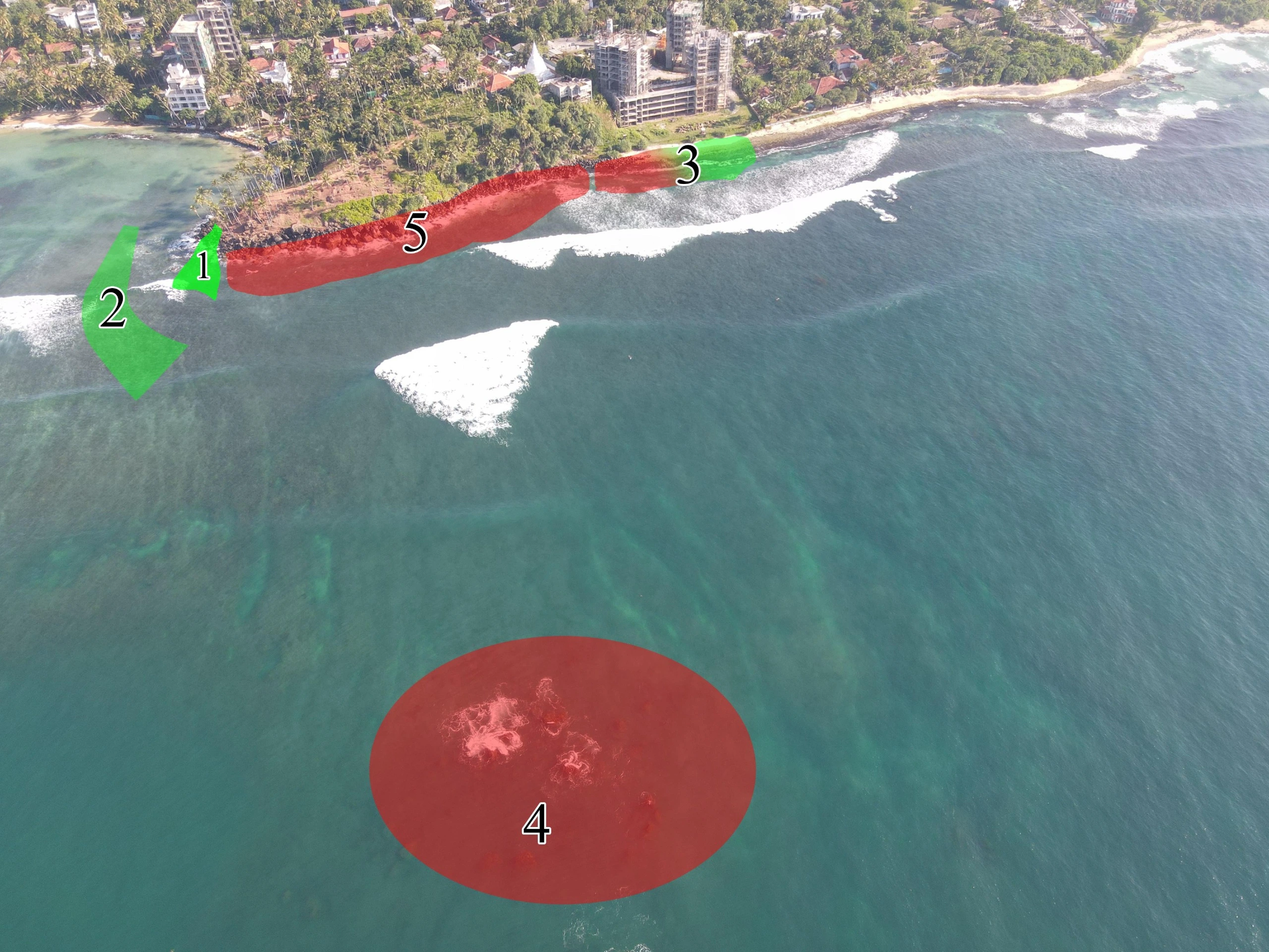
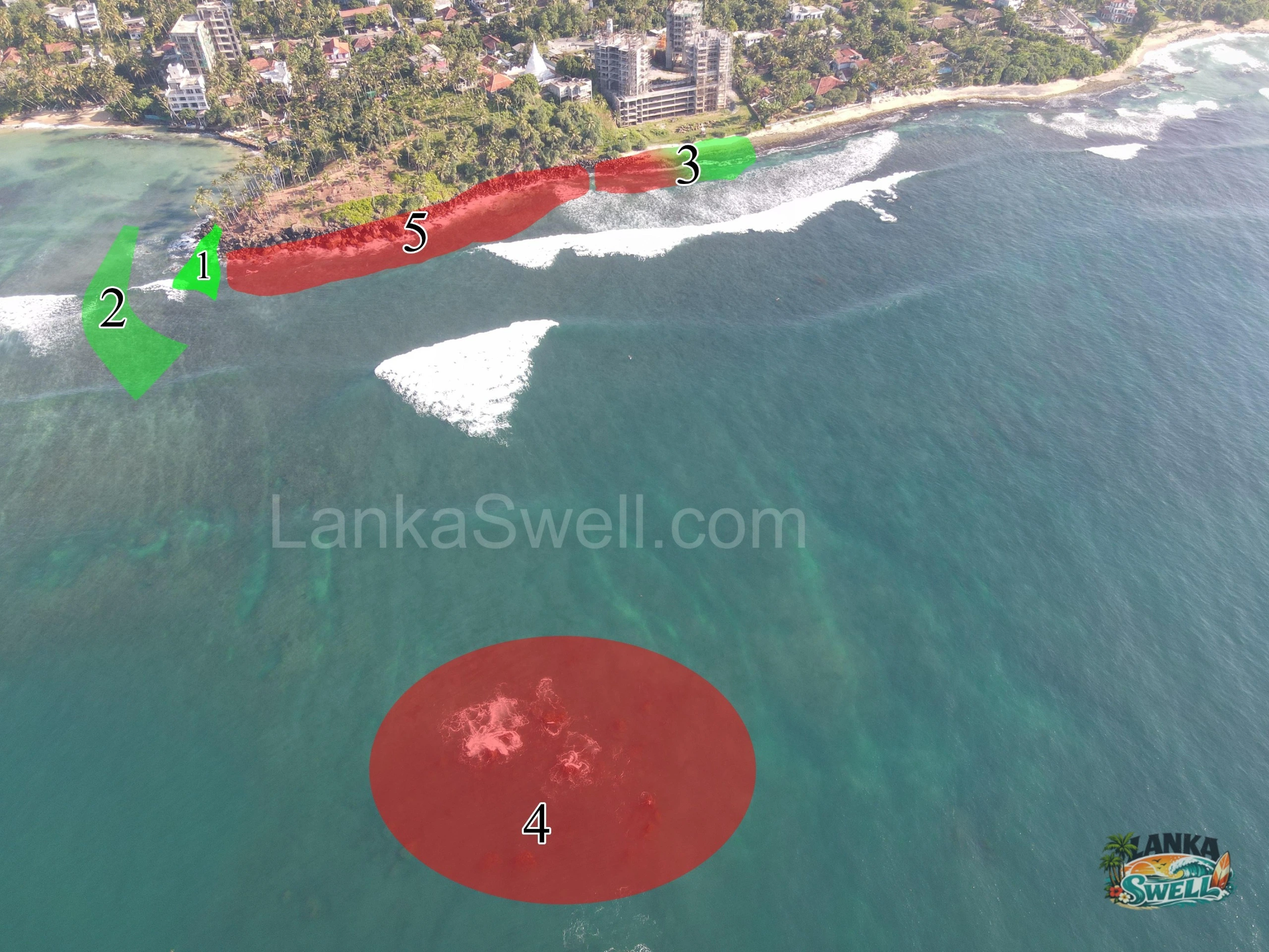
protect guide

Changed region(s): [[0.2188, 0.5, 0.6562, 0.5938], [0.8438, 0.875, 0.9688, 0.9688], [0.1875, 0.5312, 0.2188, 0.5625]]

diff --git a/js/spot.js b/js/spot.js
@@ -495,6 +495,10 @@ function renderSurfModal(spot) {
         </ul>
       </div>
     ` : ""}
+	
+	<div class="surf-copyright">
+  © ${new Date().getFullYear()} LankaSwell. All surf guides, descriptions and visuals are original content and may not be copied or redistributed without permission.
+</div>
   `;
 }
 
@@ -505,6 +509,7 @@ function modalSection(title, text) {
       <p>${escapeHTML(text)}</p>
     </div>
   `;
+  
 }
 
 function renderVenueModal(spot) {
@@ -614,3 +619,32 @@ window.openSurfModal = openSurfModal;
 window.closeSurfModal = closeSurfModal;
 window.openVenueModal = openVenueModal;
 window.closeVenueModal = closeVenueModal;
+
+const surfModal = document.getElementById("surfModal");
+
+if (surfModal) {
+
+  // Right click
+  surfModal.addEventListener("contextmenu", e => {
+    e.preventDefault();
+  });
+
+  // Copy / cut / paste
+  surfModal.addEventListener("copy", e => e.preventDefault());
+  surfModal.addEventListener("cut", e => e.preventDefault());
+  surfModal.addEventListener("paste", e => e.preventDefault());
+
+  // Keyboard shortcuts (Ctrl/Cmd + C/X/A)
+  document.addEventListener("keydown", e => {
+    const isOpen = surfModal.classList.contains("active");
+
+    if (!isOpen) return;
+
+    if ((e.ctrlKey || e.metaKey)) {
+      const key = e.key.toLowerCase();
+      if (["c", "x", "a"].includes(key)) {
+        e.preventDefault();
+      }
+    }
+  });
+}

diff --git a/spot-template.html b/spot-template.html
@@ -733,6 +733,24 @@ footer{
   }
 }
 
+#surfModal,
+#surfModal * {
+    user-select: none;
+    -webkit-user-select: none;
+    -moz-user-select: none;
+    -ms-user-select: none;
+}
+
+.surf-copyright{
+    margin-top: 24px;
+    padding-top: 14px;
+    border-top: 1px solid rgba(255,255,255,0.1);
+    
+    font-size: 0.8rem;
+    opacity: 0.65;
+    line-height: 1.4;
+}
+
 </style>
 </head>
 
